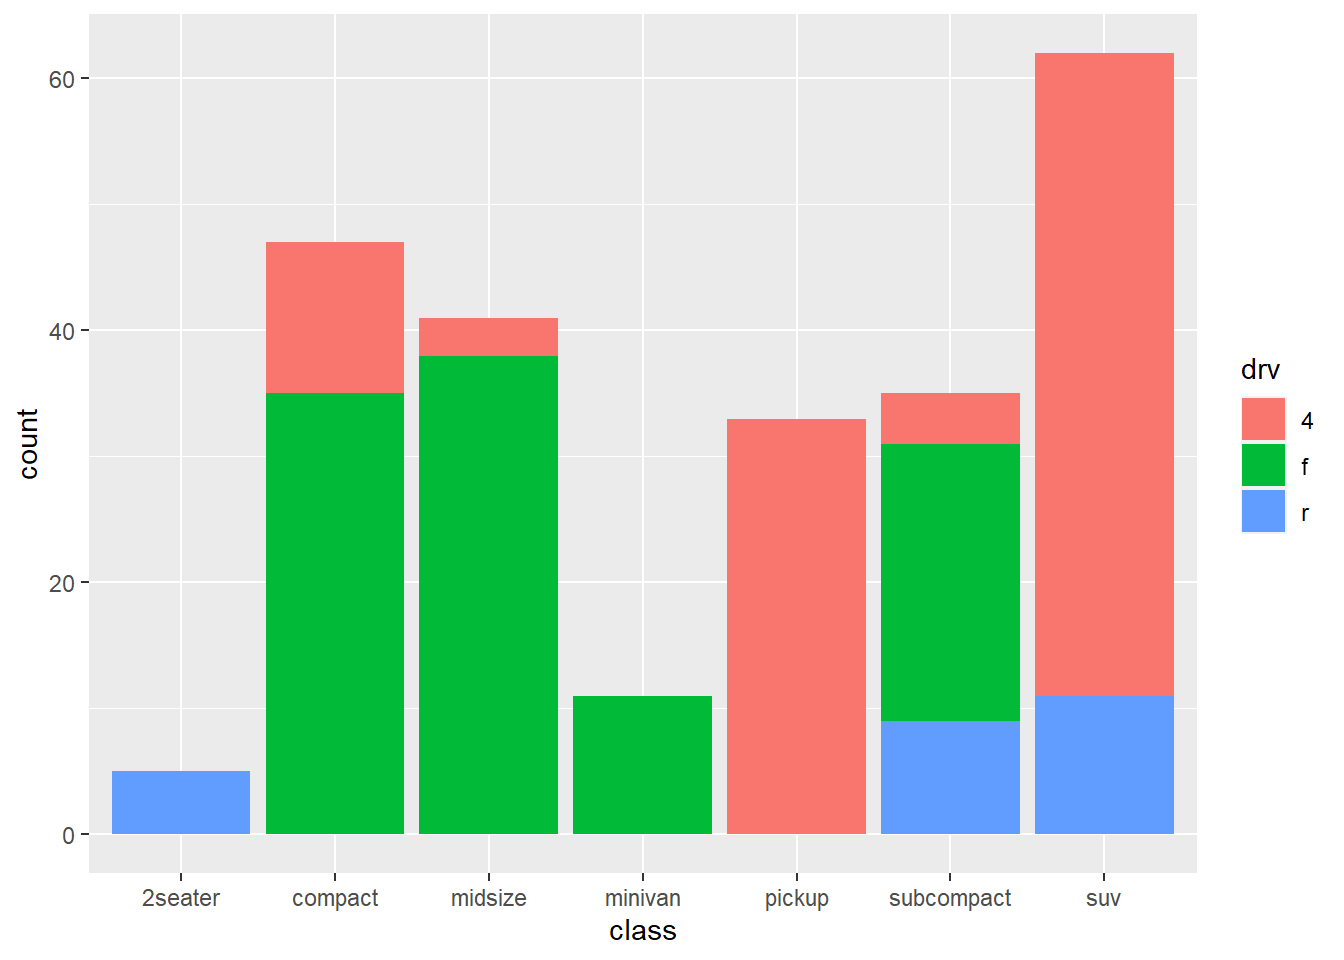
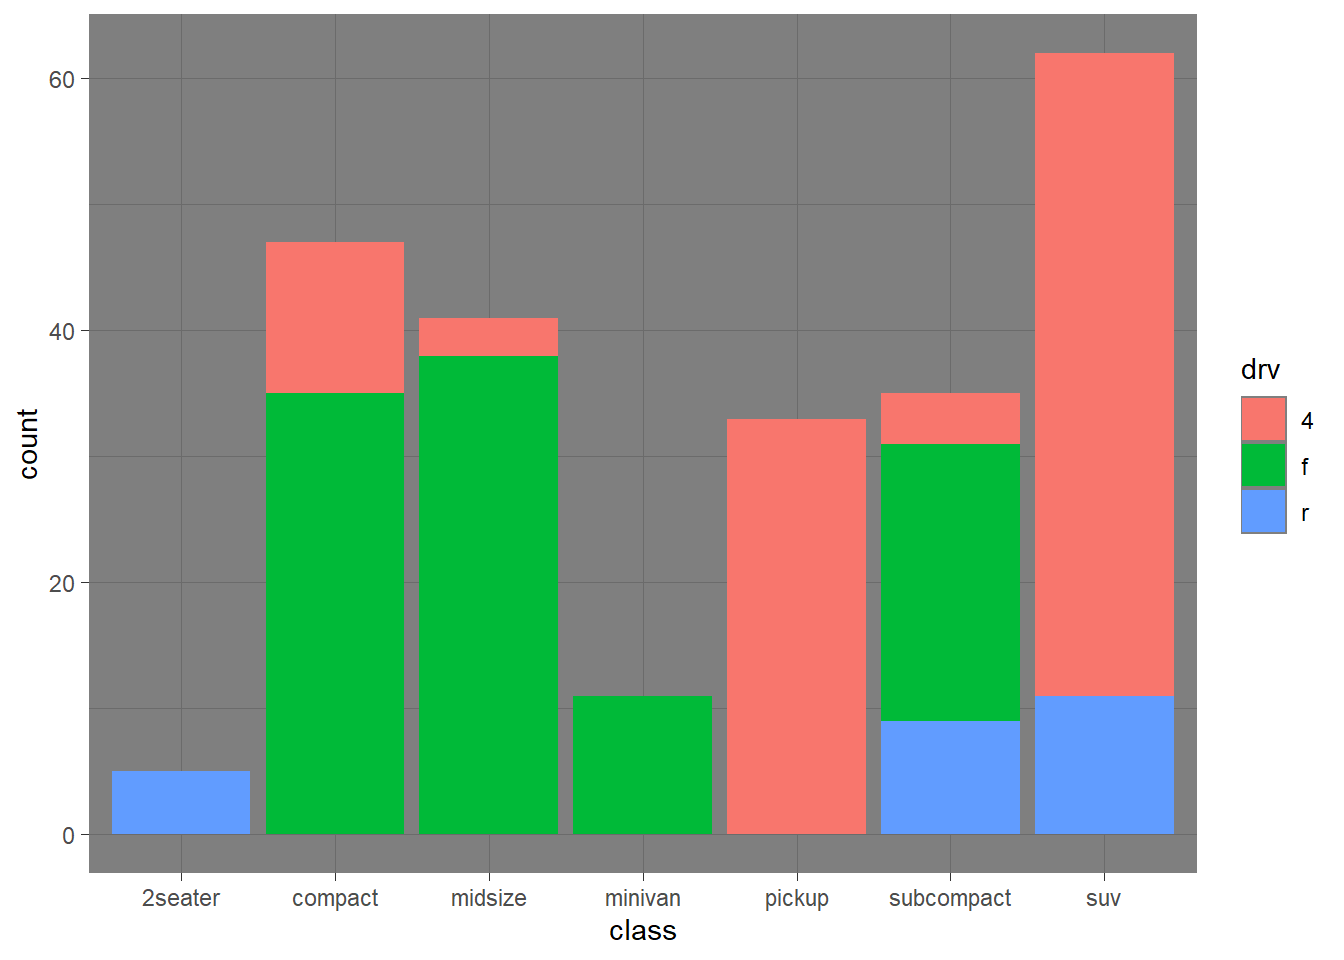
hPPY COMMIT

diff --git a/content/posts/2021-05-18-ggplot2-test2/index.html b/content/posts/2021-05-18-ggplot2-test2/index.html
@@ -13,5 +13,5 @@ tags: []
 <pre class="r"><code>library( ggplot2 )
 library( tidyverse )
 
-mpg %&gt;% ggplot( aes( class, fill=drv ) ) + geom_bar()</code></pre>
+mpg %&gt;% ggplot( aes( class, fill=drv ) ) + geom_bar() + theme_dark()</code></pre>
 <p><img src="{{< blogdown/postref >}}index_files/figure-html/unnamed-chunk-1-1.png" width="672" /></p>
